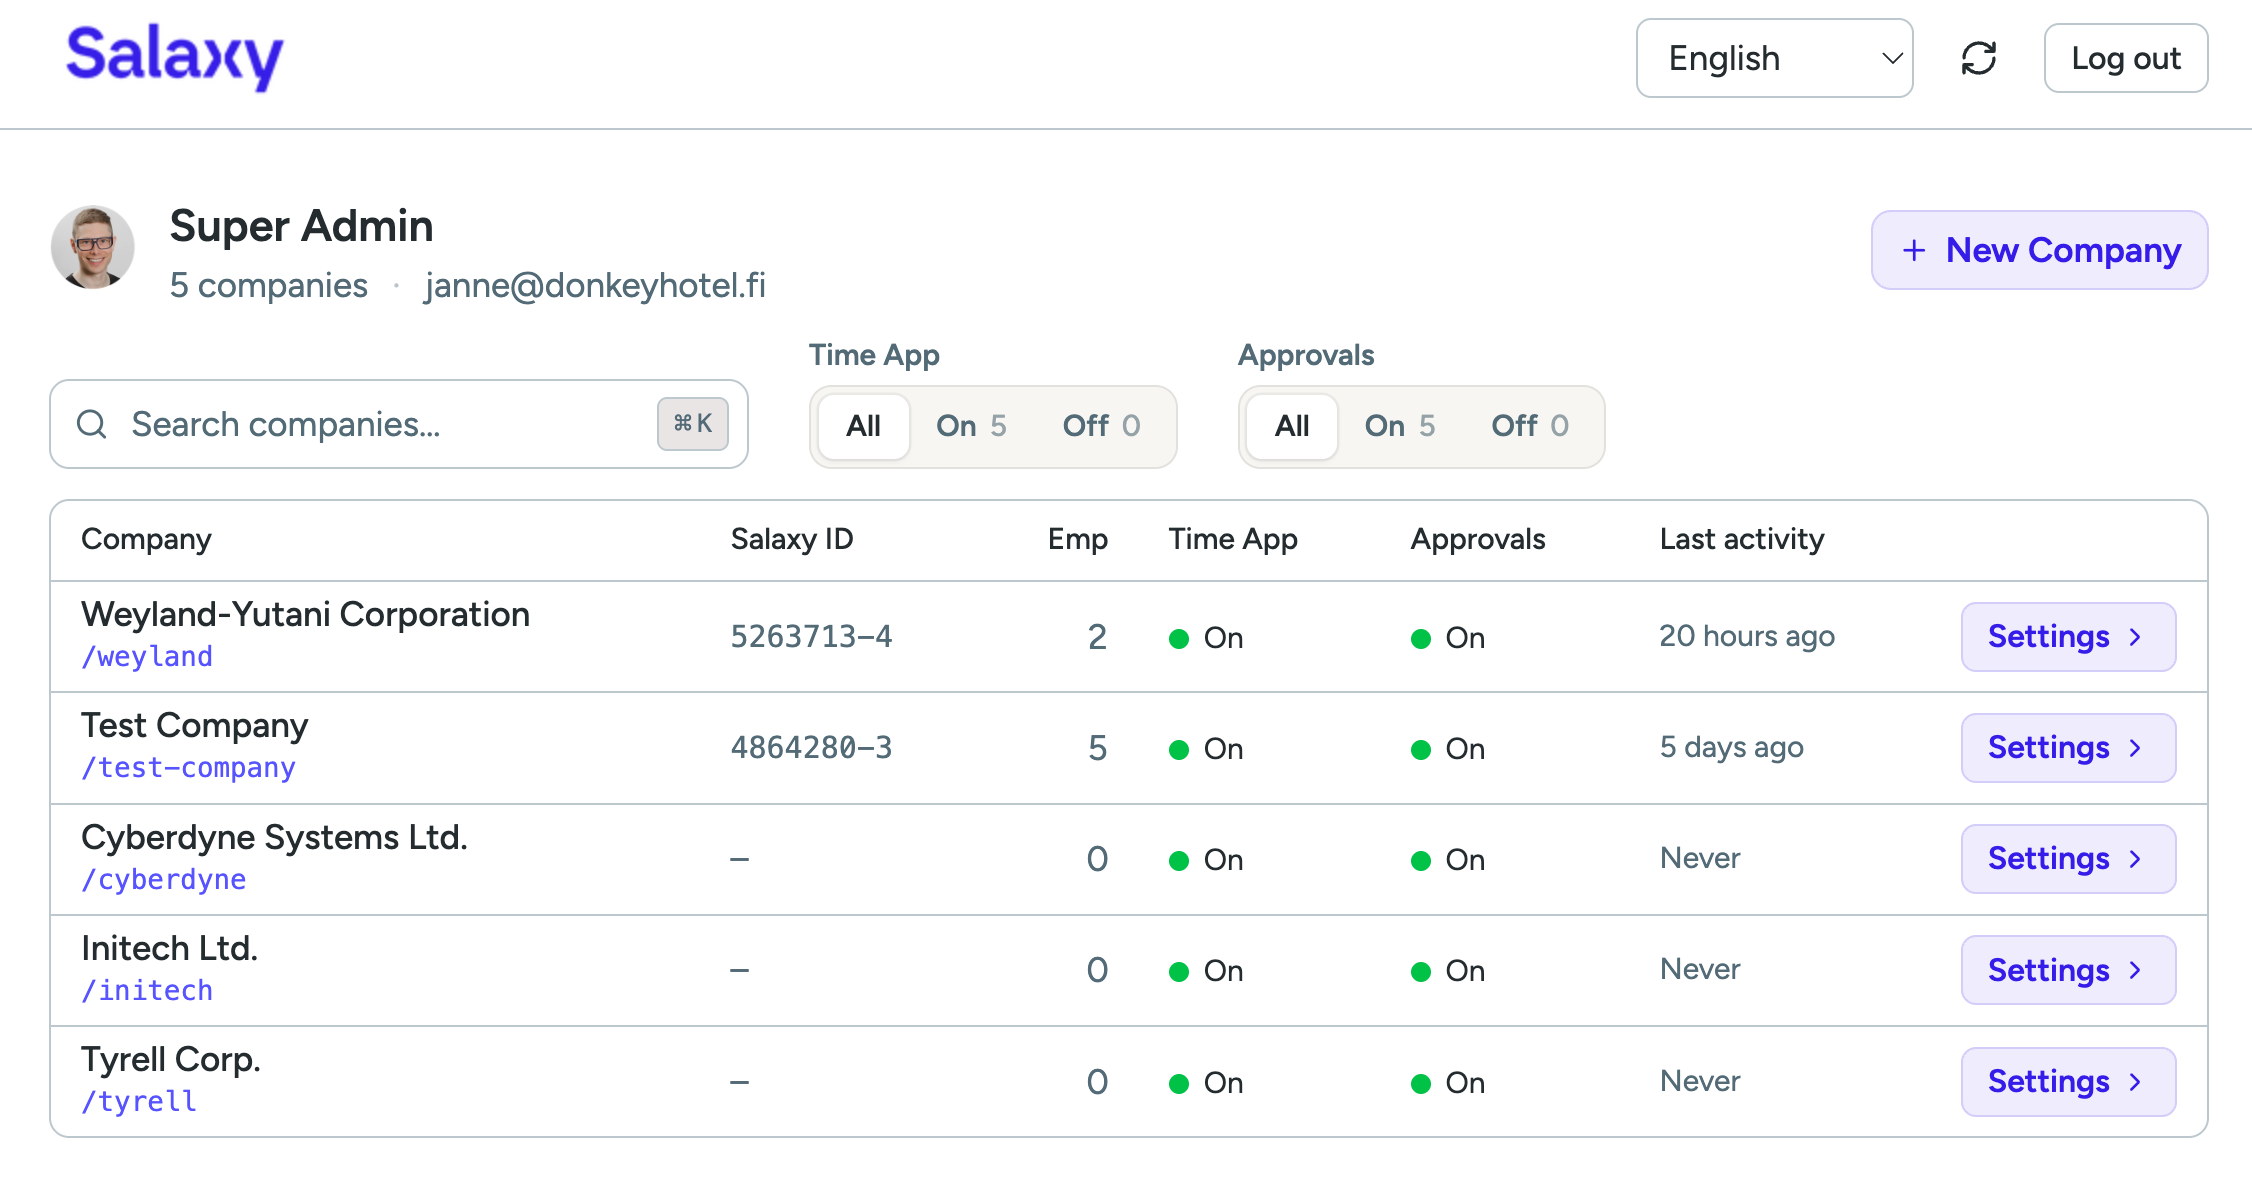
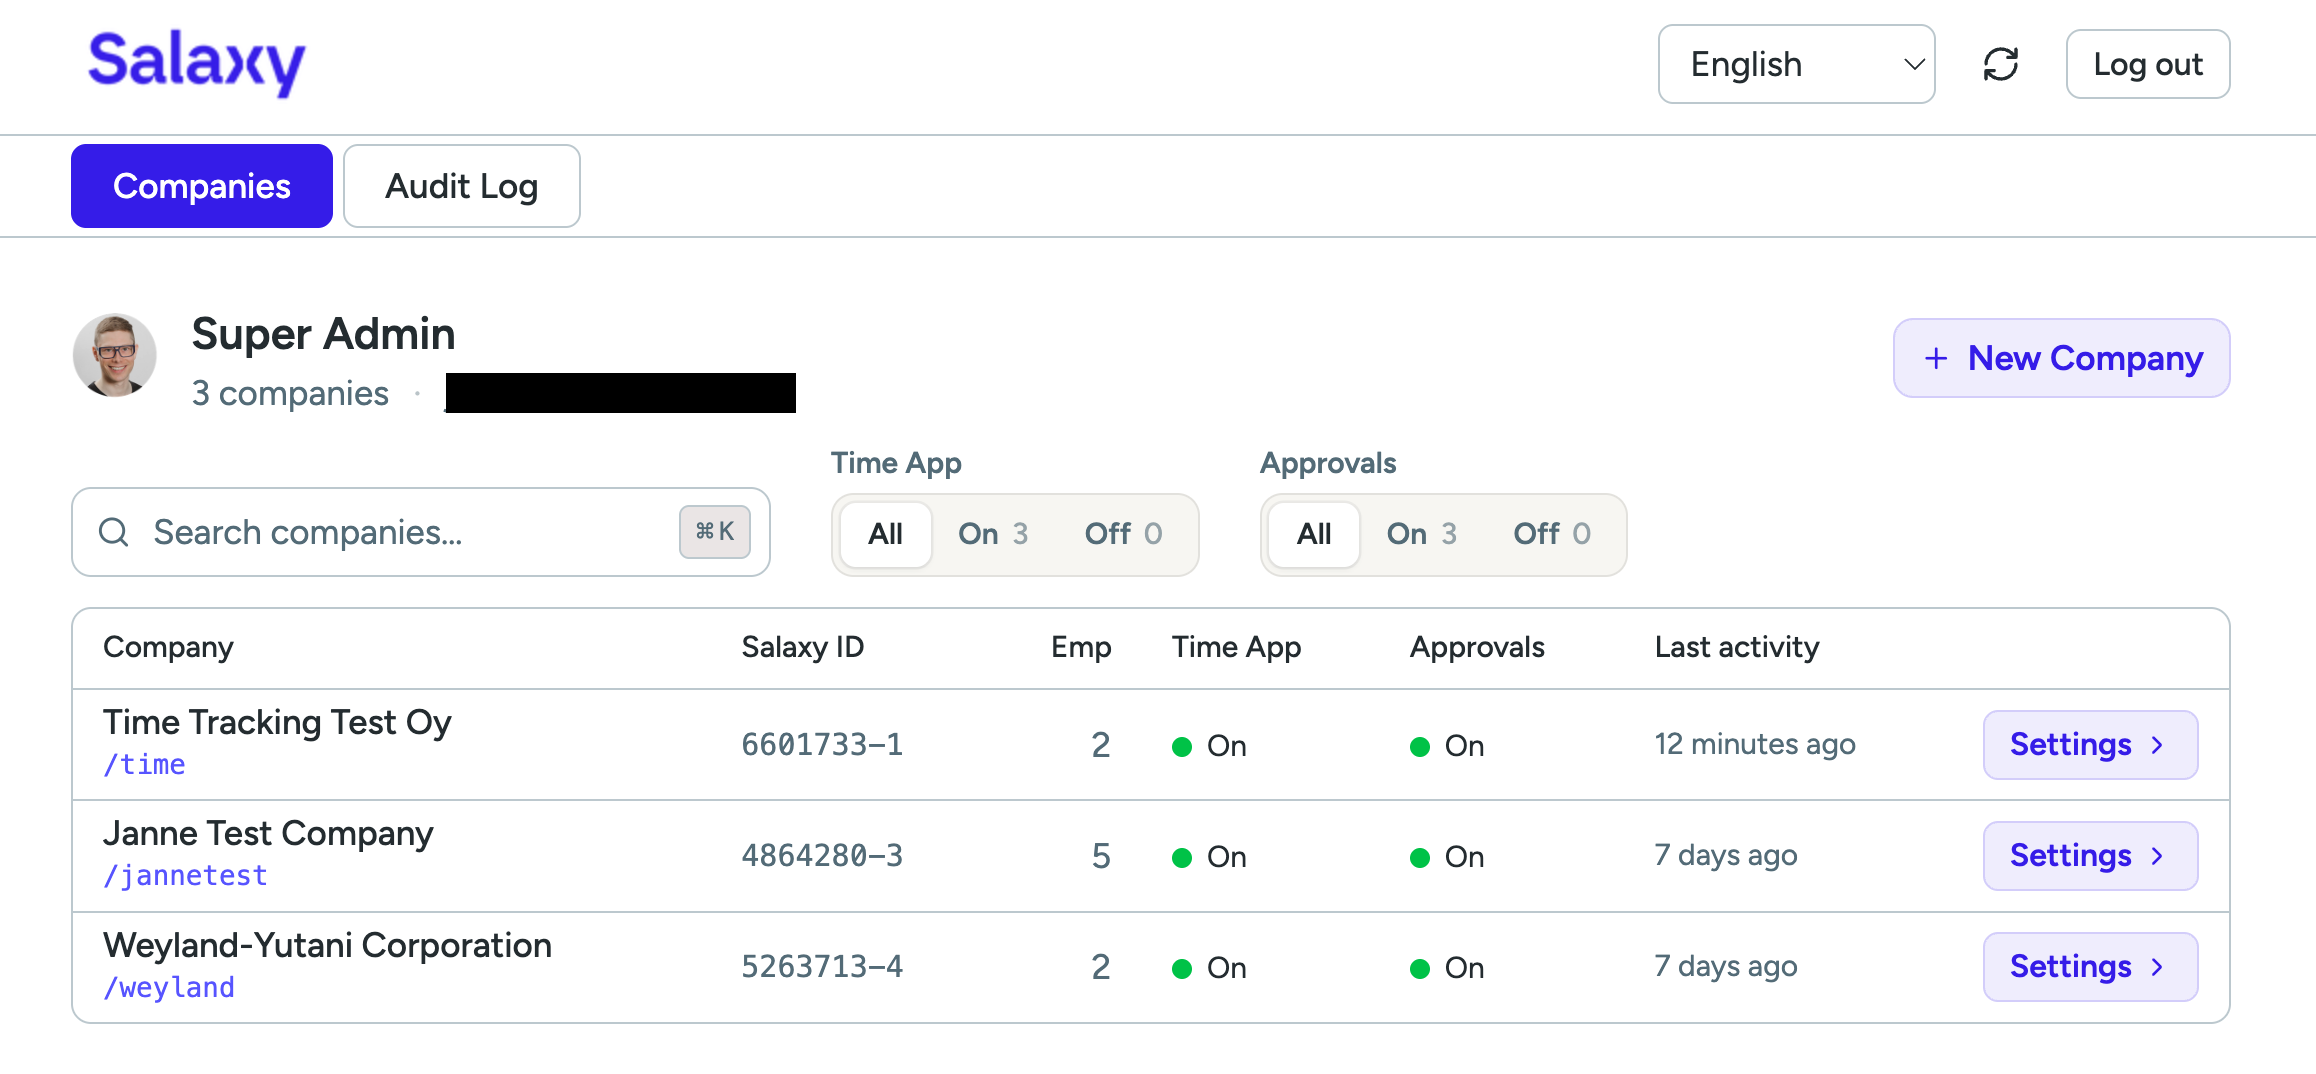
fix: use view=mine for employee time_entries fetch in AppLayout

diff --git a/frontend/src/layouts/AppLayout.vue b/frontend/src/layouts/AppLayout.vue
@@ -43,7 +43,7 @@ onMounted(async () => {
     try {
       const [{ proposals }, { entries }] = await Promise.all([
         get<{ proposals: { status: string }[] }>('/api/holiday_proposals?status=clarifying'),
-        get<{ entries: { status: string; km_status: string | null }[] }>('/api/time_entries'),
+        get<{ entries: { status: string; km_status: string | null }[] }>('/api/time_entries?view=mine'),
       ])
       pendingCount.value =
         proposals.length +
